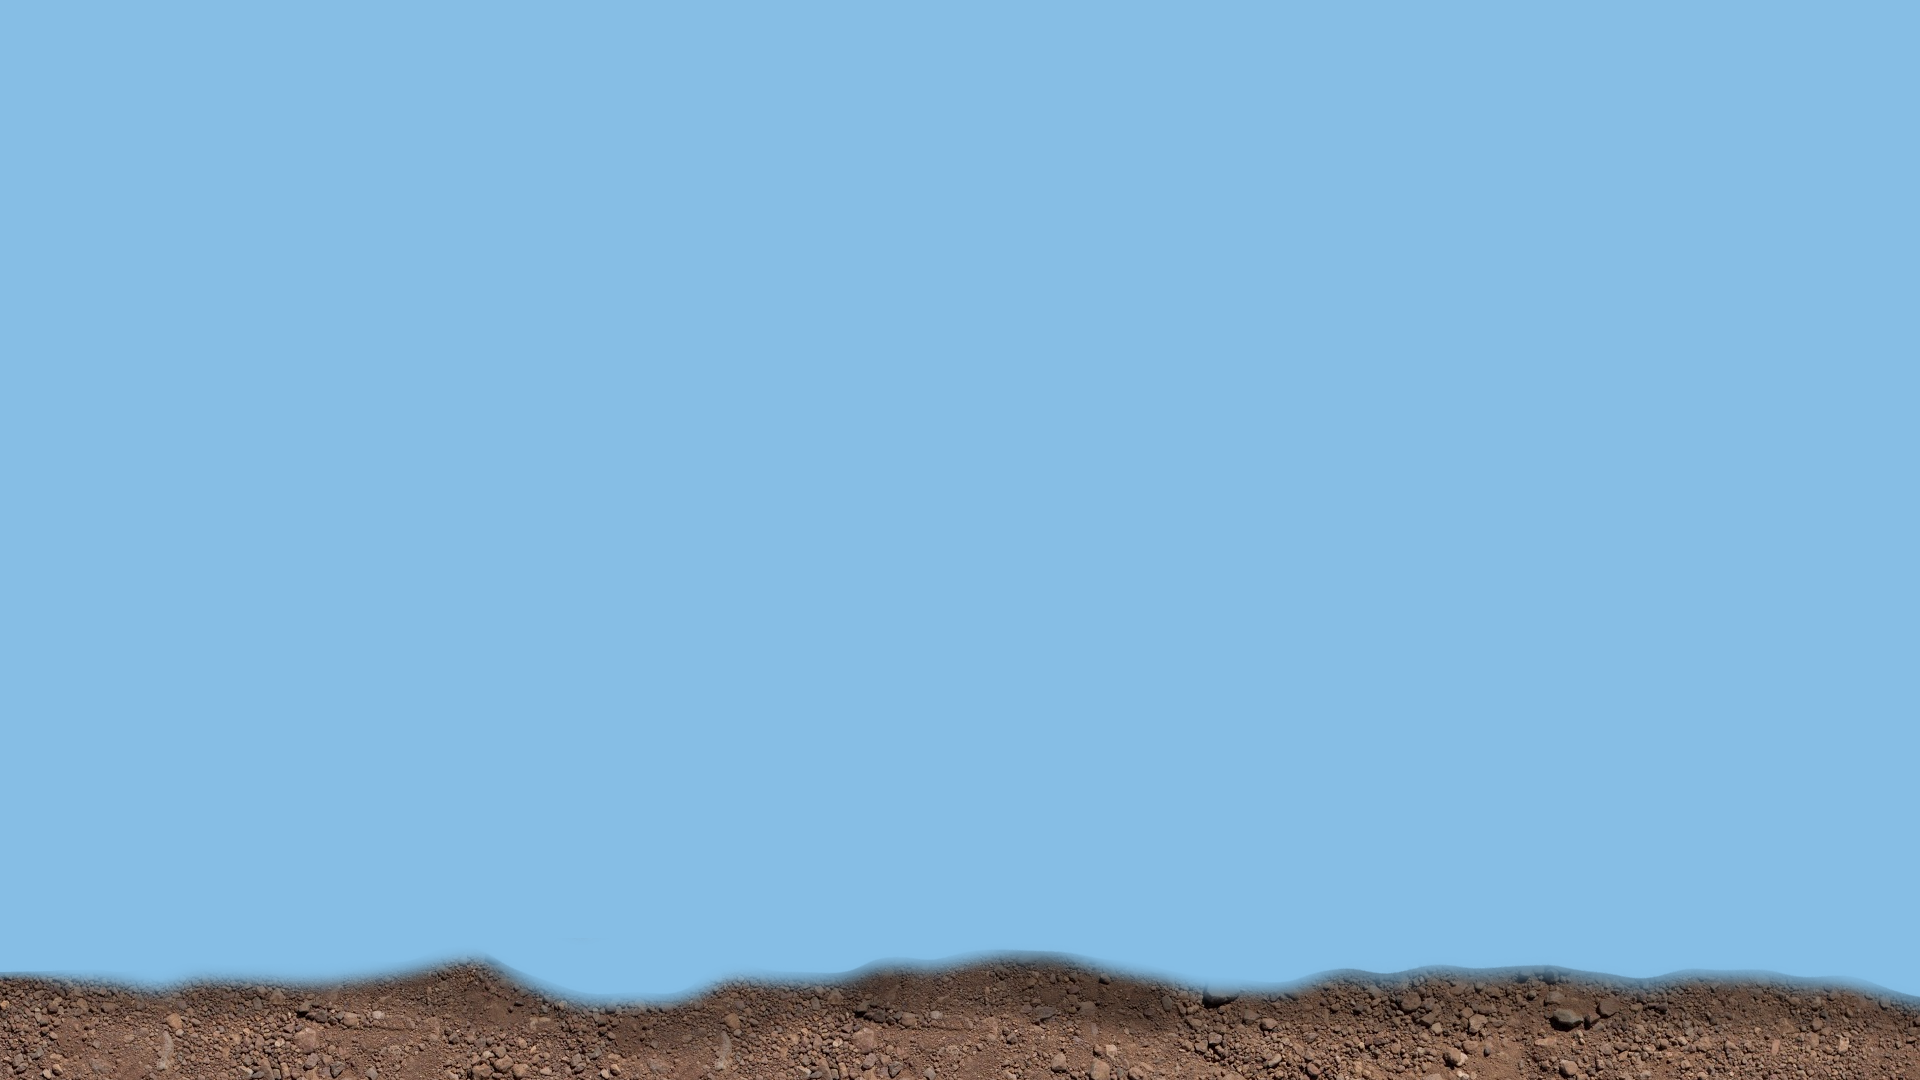
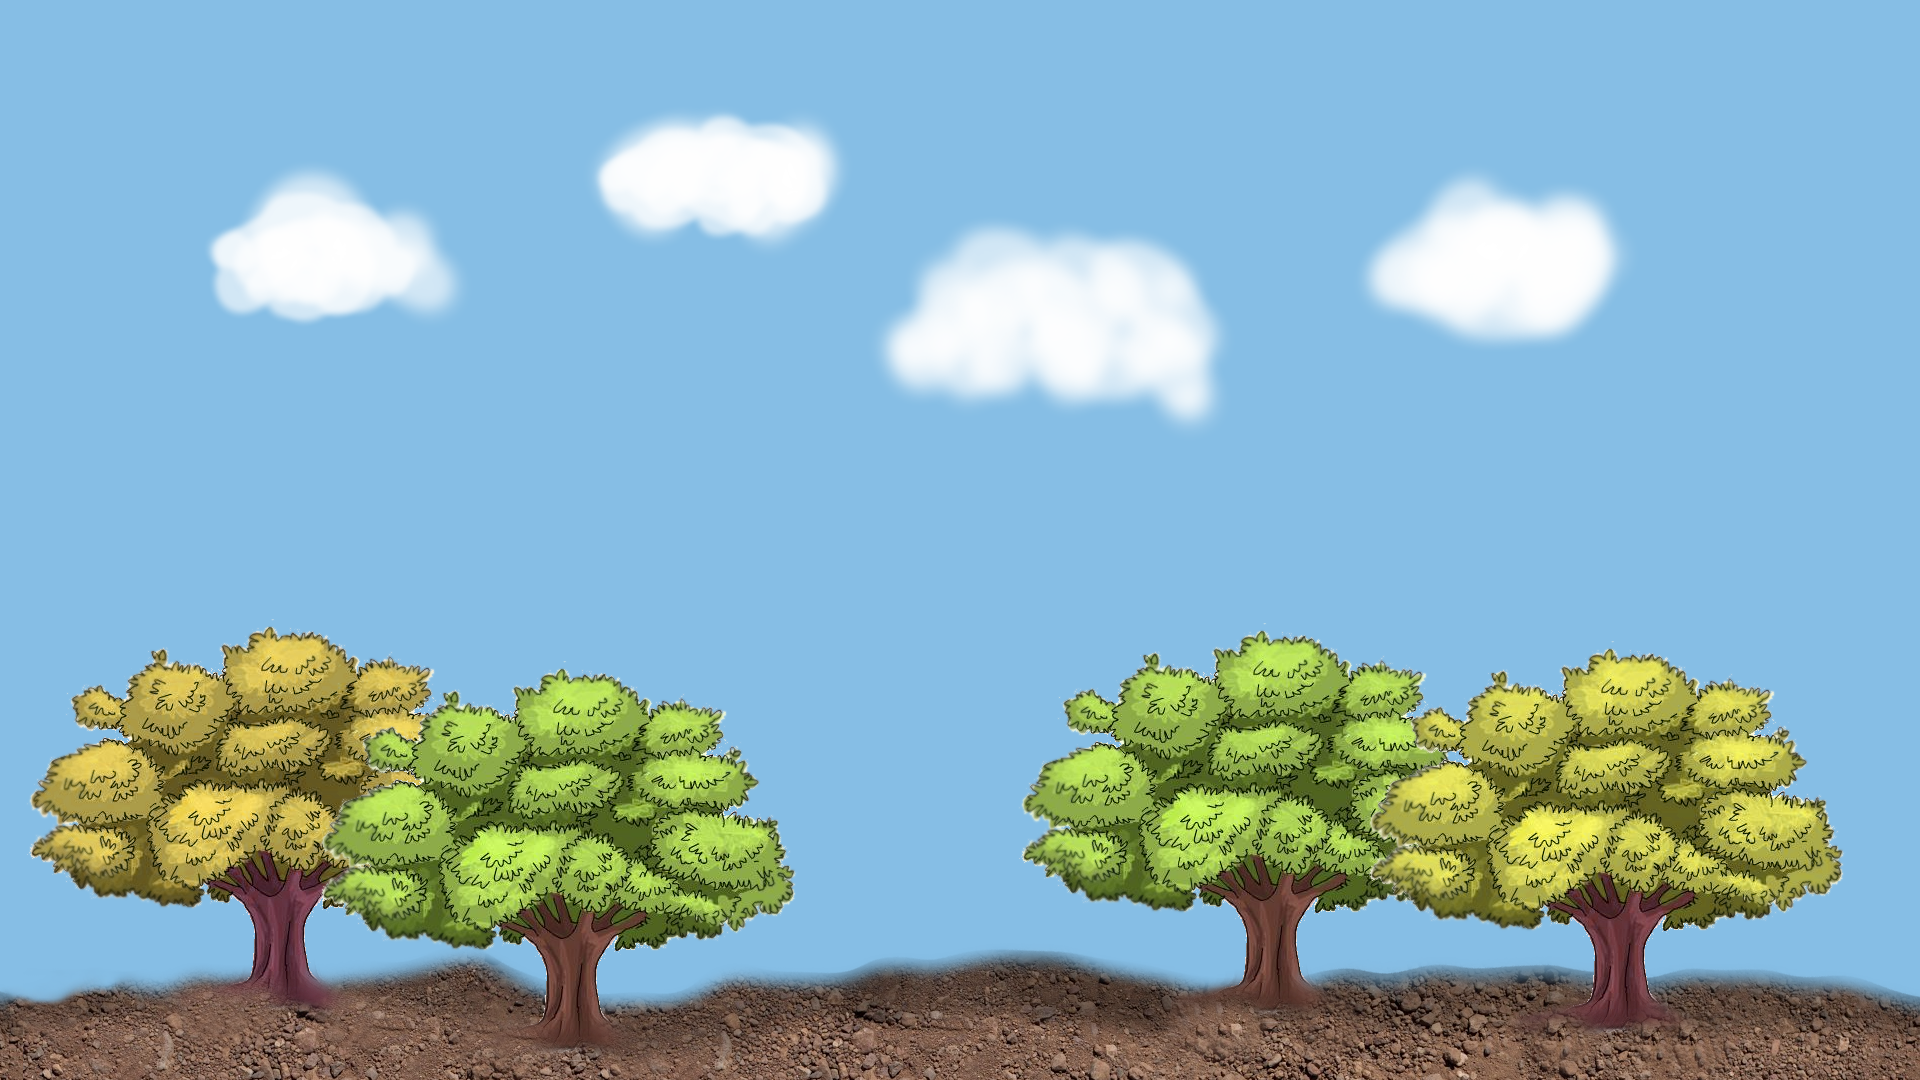
Add background, change exit button texture

diff --git a/Interface/Game.cpp b/Interface/Game.cpp
@@ -7,6 +7,12 @@ Game::Game(){
 	scaleFactor[0] = 1;
 	scaleFactor[1] = 1;
 
+	background = new Material[2];
+	background[0] = Material(GAME_BACKGROUND);
+	background[1] = Material(GAME_BACKGROUND);
+	background[0].setPosition(0,0);
+	background[1].setPosition(SCREENW,0);
+
 	Player* poutine = new Player(PLAYER_PIC,Point(0,0), sf::IntRect(),5);
 	poutine->move(poutine->getTextureWidth(),poutine->getTextureHeight()*2);
 	objects.push_back(poutine);
@@ -31,6 +37,9 @@ void Game::checkEvent()
 
 void Game::draw(sf::RenderWindow& window)
 {
+	background[0].draw(window);
+	background[1].draw(window);
+	backgroundMove();
 	for(unsigned int i=0;i<objects.size();i++)
 	{
 		objects.at(i) -> draw(window);
@@ -46,4 +55,23 @@ void Game::setScaleFactor(float* sf)
 	{
 		objects.at(i) -> setScale(scaleFactor[0],scaleFactor[1]);
 	}
+	
+	background[0].setScale(scaleFactor[0],scaleFactor[1]);
+	background[1].setScale(scaleFactor[0],scaleFactor[1]);
+}
+
+
+void Game::backgroundMove()
+{
+	if(background[0].mat_getX()==-SCREENW)
+	{
+		background[0].move(2*SCREENW,0);
+	}
+	if(background[1].mat_getX()==-SCREENW)
+	{
+		background[1].move(2*SCREENW,0);
+	}
+	
+	background[0].move(-GAME_BACKGROUND_SPEED,0);
+	background[1].move(-GAME_BACKGROUND_SPEED,0);
 }

diff --git a/Interface/Game.hpp b/Interface/Game.hpp
@@ -6,6 +6,7 @@
 #include <fstream>
 
 #include "../Config/PLAYER_CONFIG.hpp"
+#include "../Config/INTERFACE_CONFIG.hpp"
 
 #include "../Game/Object.hpp"
 #include "../Game/Bullet.hpp"
@@ -16,6 +17,7 @@
 #include "../Game/Weapon.hpp"
 #include "../Game/Item.hpp"
 #include "../Game/Explosion.hpp"
+#include "../Basic/Material.hpp"
 
 class Game{
     protected :
@@ -26,6 +28,7 @@ class Game{
         float* scaleFactor;
         
         bool visible;
+        Material* background;
         
     public :
         Game();
@@ -37,6 +40,8 @@ class Game{
         void checkEvent();
         void draw(sf::RenderWindow& window);
         void setScaleFactor(float* scaleFactor);
+        
+        void backgroundMove();
 };
 
 

diff --git a/Basic/Material.cpp b/Basic/Material.cpp
@@ -53,7 +53,17 @@ Material::Material(std::string path,int screen[2], bool smooth)
 
 }
 
+float Material::mat_getX()
+{
+	 sf::Vector2f vec = getPosition();
+	 return vec.x;
+}
 
+float Material::mat_getY()
+{
+	 sf::Vector2f vec = getPosition();
+	 return vec.y;
+}
 
 void Material::draw(sf::RenderWindow& window)
 {

diff --git a/Basic/Material.hpp b/Basic/Material.hpp
@@ -20,6 +20,9 @@ class Material : public sf::Sprite
 		Material(std::string path,bool smooth=true);
 		Material(std::string path,int screen[2],bool smooth=true);
 	
+		float mat_getX();
+		float mat_getY();
+	
 		/**
 		 * Draw the material in a window
 		 * @param window

diff --git a/Config/INTERFACE_CONFIG.hpp b/Config/INTERFACE_CONFIG.hpp
@@ -13,6 +13,8 @@
 
 #define MENU_BUTTON "Images/Menu/button.png"
 
+#define GAME_BACKGROUND "Images/Interface/BG.png"
+#define GAME_BACKGROUND_SPEED 1
 
 #define TEXT_FONT "Images/Russian.ttf"
 
